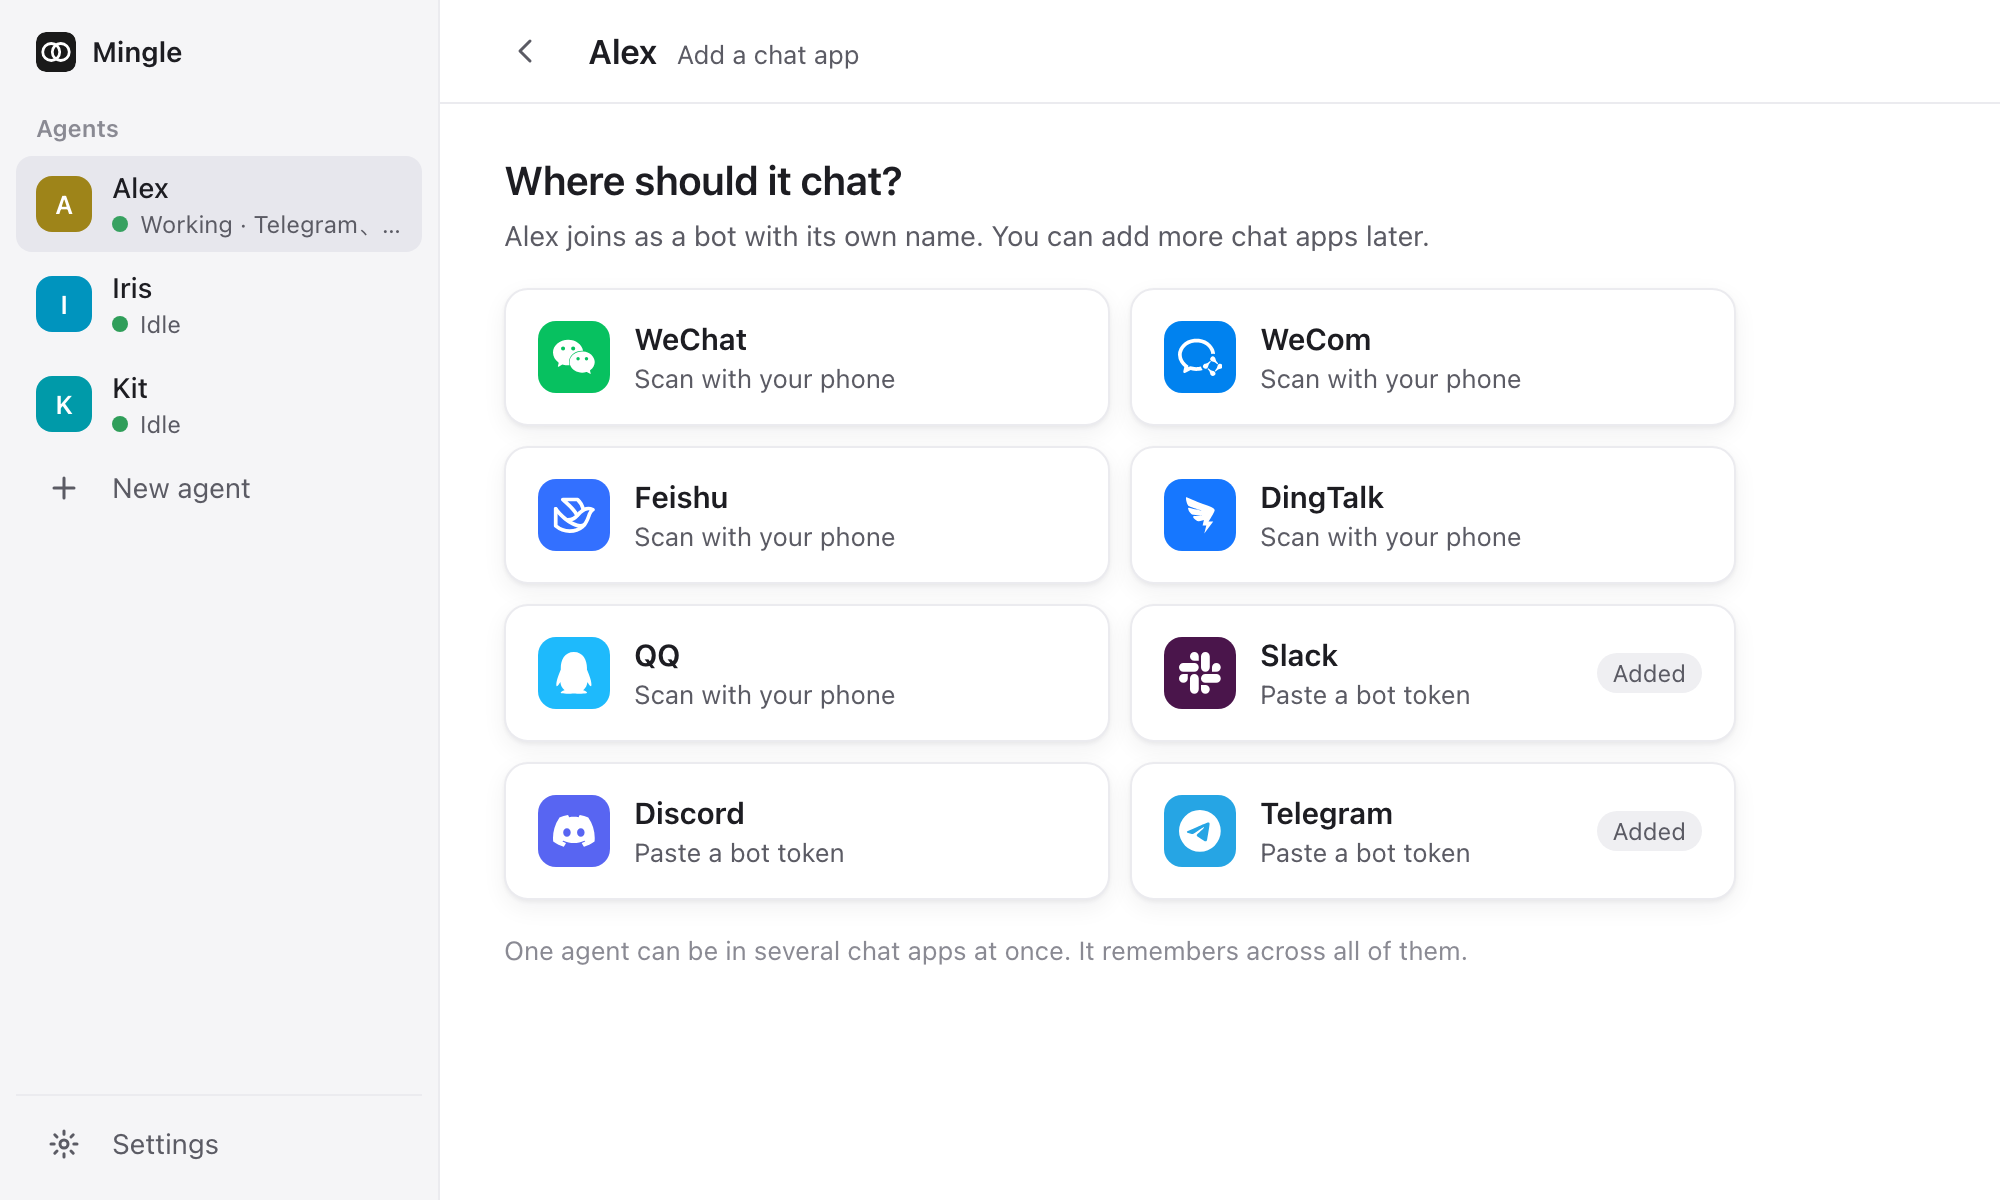
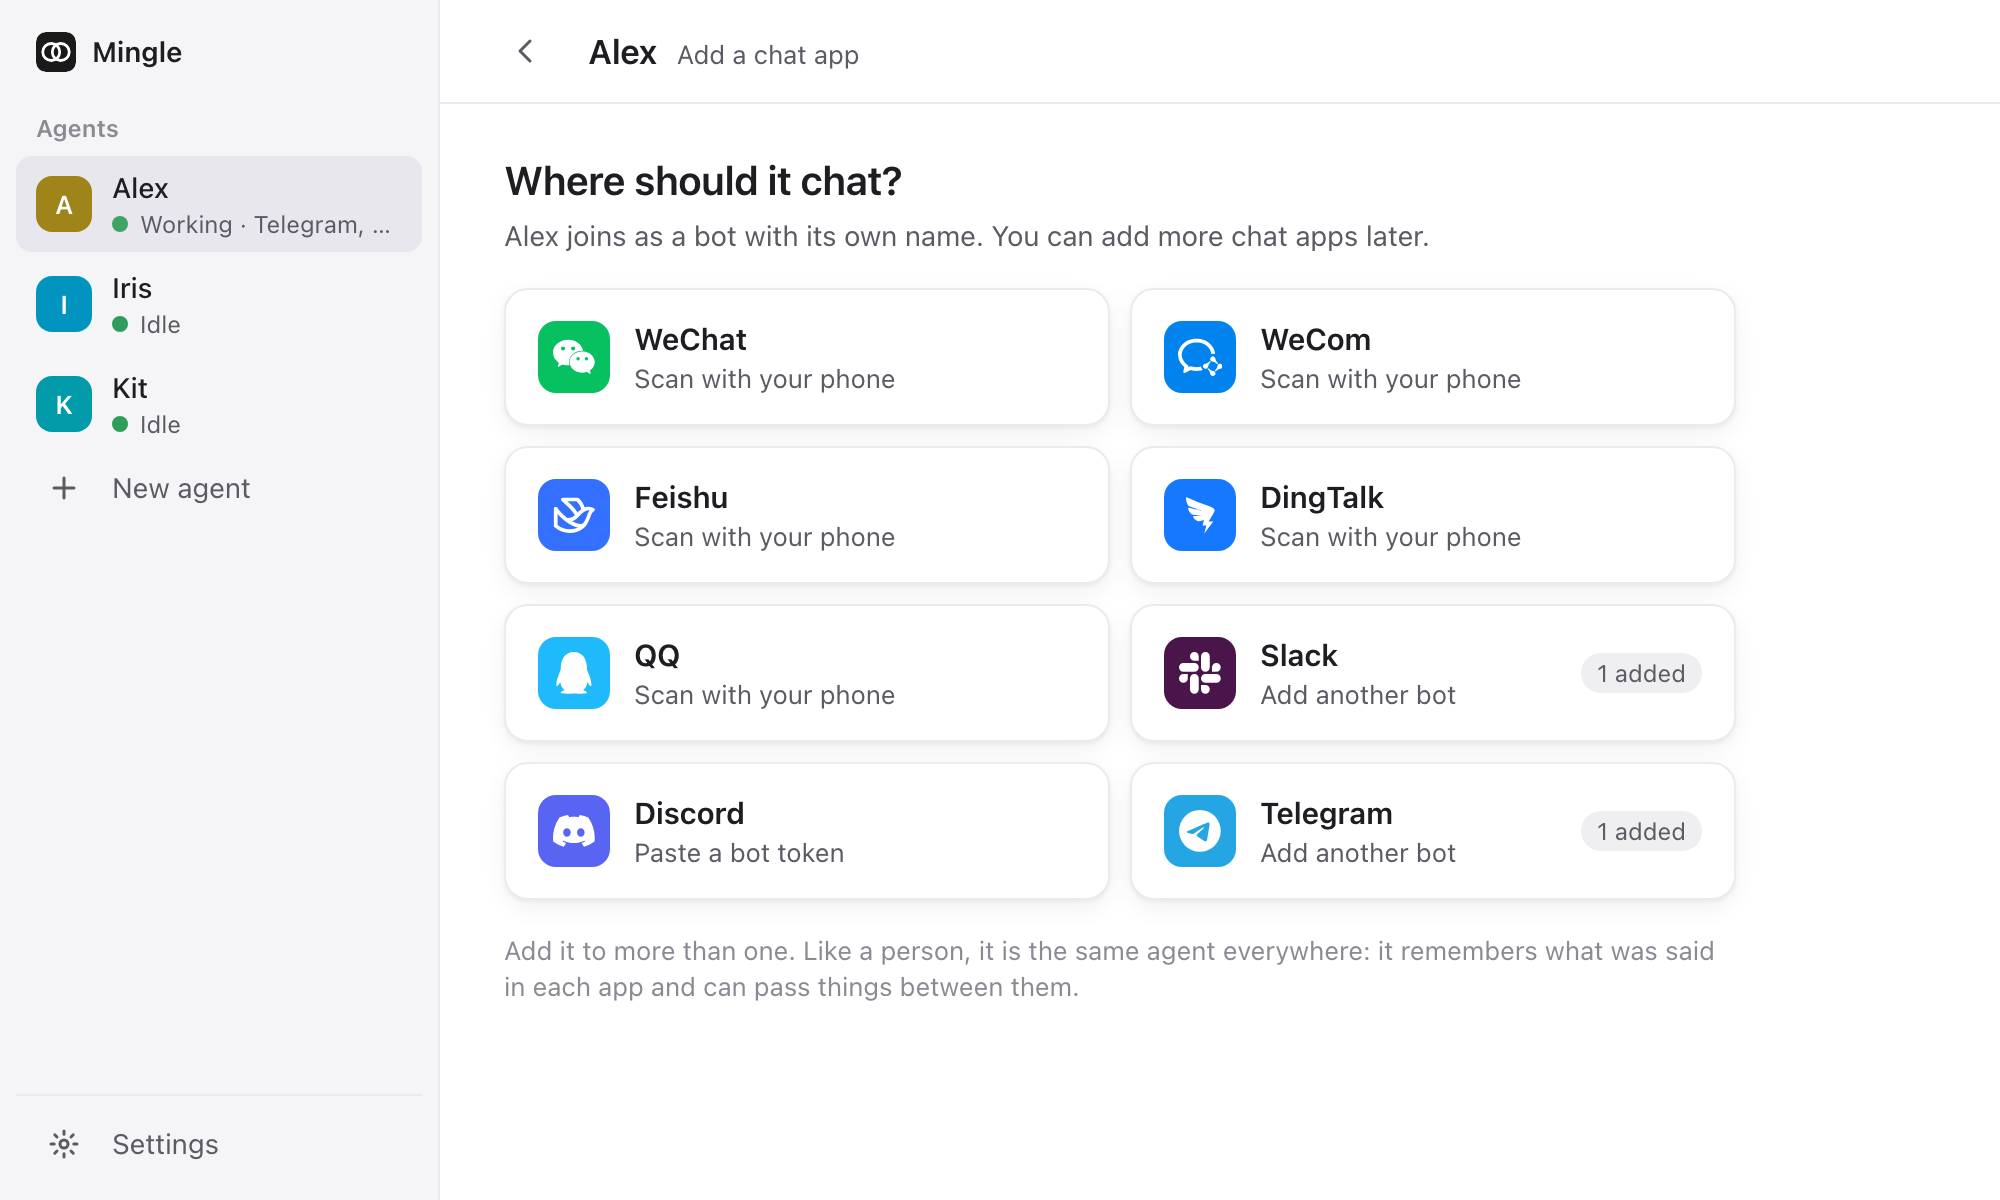
Prepare v0.1.7 and refresh website screenshots

Changed region(s): [[0.248, 0.7708, 0.868, 0.8325], [0.62, 0.7092, 0.744, 0.74], [0.62, 0.555, 0.744, 0.5858]]

diff --git a/CHANGELOG.md b/CHANGELOG.md
@@ -5,8 +5,11 @@ Releases are cut as described in [docs/releasing.md](docs/releasing.md).
 
 ## Unreleased
 
+## 0.1.7
+
 - Pause an agent under Settings → Running (or `mingle agent pause`). A paused agent stops what it is doing and takes no messages until you resume it; people who write to it are told once per chat that it is paused, and reminders wait until it resumes. Its memory, settings and chat apps are kept, and it stays paused after a restart. "Stop" still only ends the current piece of work.
 - Creating another agent now opens its "connect a chat app" step, instead of jumping to your first agent.
+- Scanning an already connected bot again refreshes its credentials and reconnects it, so QQ's rotated secret no longer leaves the original connection offline. Scanning for the same agent succeeds; a bot already assigned to another agent stays with that agent.
 
 ## 0.1.6
 
